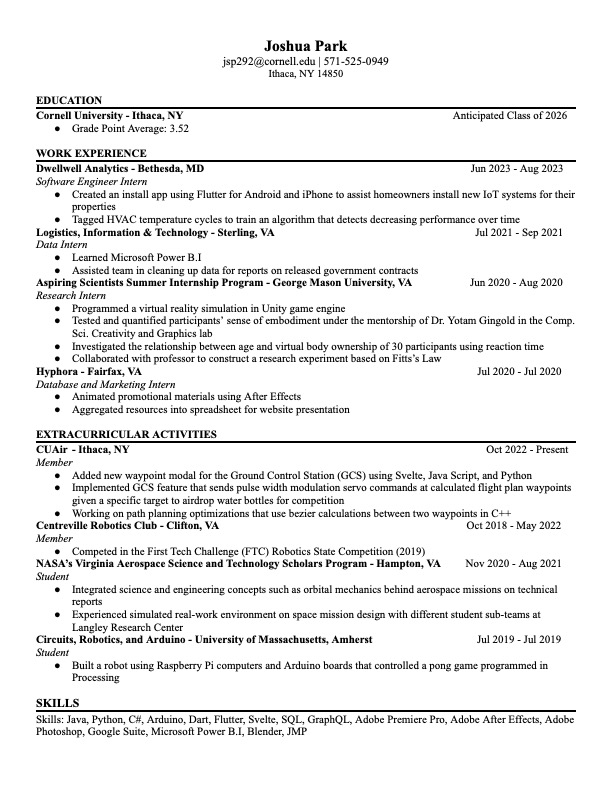
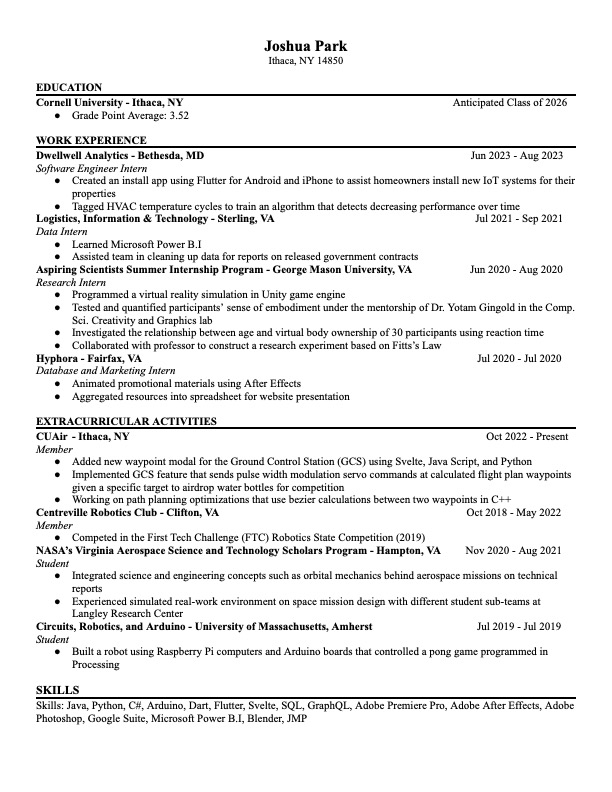
edited welcome message, arduino project, and removed email

Changed region(s): [[0.0621, 0.0909, 0.9624, 0.9394], [0.3725, 0.0606, 0.652, 0.1212], [0.7141, 0.1212, 0.9314, 0.1515]]

diff --git a/projects.html b/projects.html
@@ -40,7 +40,7 @@
                             Arduino Pong Project
                         </h2>
                         <p>
-                            During my freshman year of high school, I participated in a two-week summer camp at UMass where I embarked on an exciting project. I ingeniously developed a Pong game that ingeniously utilized ultrasonic sensors to maneuver a cardboard paddle. These sensors cleverly gauged distances, translating them into gameplay movements. To bring this concept to life, I employed both Processing and Arduino for coding, effectively bridging hardware and software. Working collaboratively with Maximo, we collectively gave form to this creative endeavor.
+                            During my freshman year of high school, I participated in a two-week summer camp at UMass where I embarked on an exciting project. I developed a Pong game that utilized ultrasonic sensors to maneuver a cardboard paddle. These sensors cleverly gauged distances, translating them into gameplay movements. To bring this concept to life, I employed both Processing and Arduino for coding, effectively bridging hardware and software. Working collaboratively with Maximo, we collectively gave form to this creative endeavor.
 
                             Adding to the complexity and depth of the project, I also worked with breadboards and Raspberry Pi computers. These elements allowed for even more intricate interactions and possibilities within the game. It's a regrettable reality that the project's original code has been lost over time. Nevertheless, this experience left an indelible mark, nurturing my understanding of electronics, coding, game design, and the potential of linking the physical world with virtual realms. The insights I gained continue to motivate me to explore innovative projects in this realm moving forward.
                         </p>

diff --git a/index.html b/index.html
@@ -37,7 +37,7 @@
             </h2>
 
             <div class="welcomesection">
-                I am a passionate student pursuing a degree in Information Science at Cornell University, with a keen interest in User Experience (UX), User Interfaces (UI), and Data Science.
+                I am a passionate student pursuing a degree in Information Science at Cornell University, with a keen interest in Data Science.
             </div>
         </div>
 

diff --git a/contact.html b/contact.html
@@ -36,7 +36,7 @@
             <div class="circle"></div>
             <a href="https://www.instagram.com/joshuap.ark/"><img src="images/instagram.png" alt=""></a>
             <div class="circle"></div>
-            <a href="mailto:jsp292@cornell.edu"><img src="images/email.png" alt=""></a>
+            <a href=""><img src="images/email.png" alt=""></a>
 
             <div class="circle"></div>
         </div>
